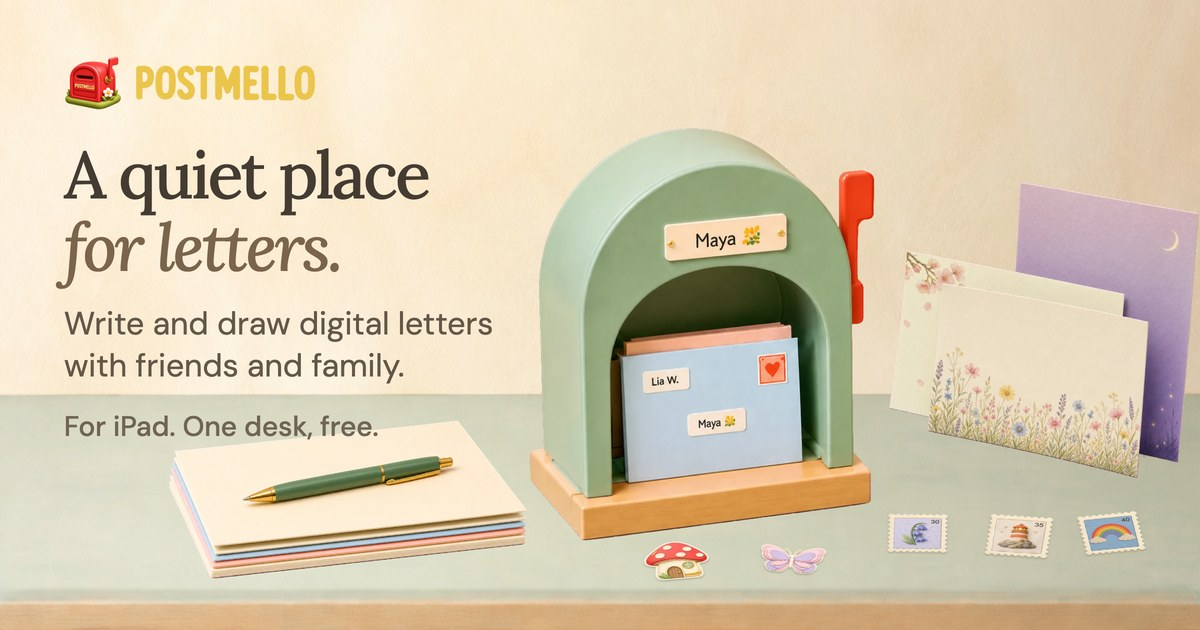
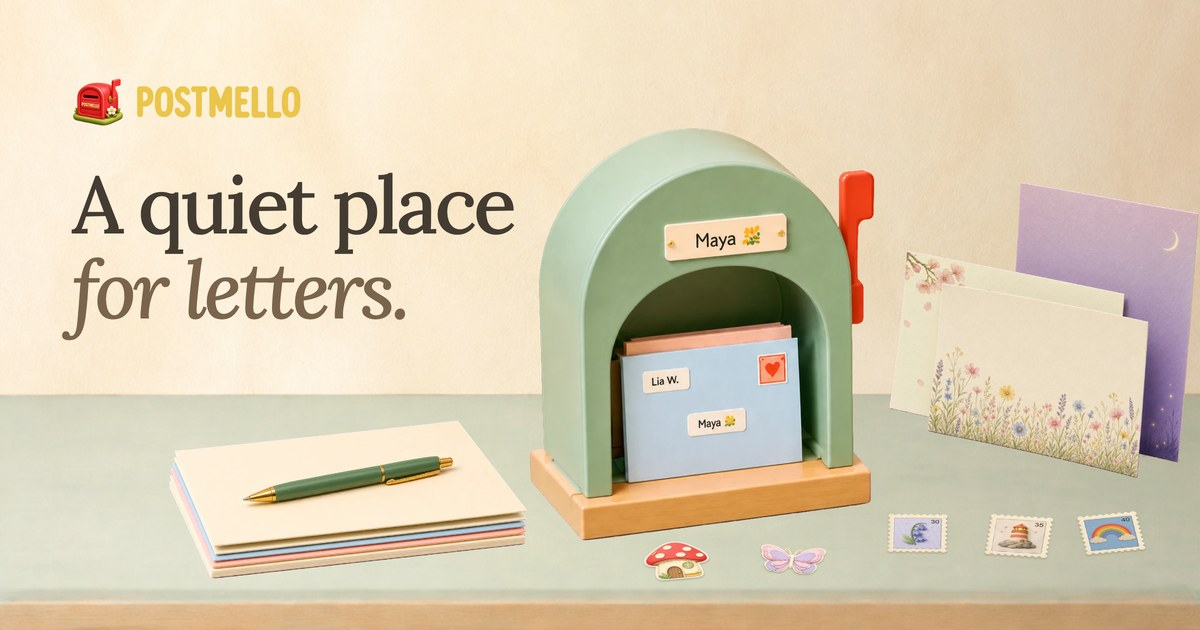
The share card is the wordmark, the headline and the desk
Patrick, 2026-09-15: the status line was a stray sentence without the badge it
sits beside on the site, and the sentence under the headline flattened the
type ramp and crowded the desk's rear edge. Both are gone. The card is the
drawn wordmark, the hero headline at 80px (88 ran into the mailbox) and the
desk scene; og:description carries the sentence under the picture.

Changed region(s): [[0.0308, 0.2413, 0.4317, 0.6032], [0.0308, 0.0905, 0.2775, 0.2111], [0.0308, 0.6635, 0.3083, 0.6937]]

diff --git a/scripts/og-card.html b/scripts/og-card.html
@@ -59,45 +59,39 @@
        comfortably. Test, do not estimate: render, downsample to 300px and
        360px, and look. A line that is illegible there is not on the card. */
     .copy {
-      position: absolute; left: 64px; top: 54px; width: 540px; z-index: 1;
+      position: absolute; left: 72px; top: 76px; width: 560px; z-index: 1;
     }
     /* THE WORDMARK IS DRAWN - assets/wordmark.png, the same file the site
        header uses, no typeface at all. Sized by height, width auto: the aspect
        is the drawing's. The lockup leads because the card is a thumbnail in
        somebody else's feed long before it is a 1200px image, and the mark is
-       what does the branding at 300px. */
-    .mark { display: flex; align-items: center; gap: 14px; margin-bottom: 26px; }
-    .mark .glyph { width: 58px; height: 58px; }
-    .mark .word { height: 35px; width: auto; display: block; }
+       what does the branding at 300px. On the site the lockup is a header
+       above the hero, not part of it, so it gets a header's distance here. */
+    .mark { display: flex; align-items: center; gap: 13px; margin-bottom: 34px; }
+    .mark .glyph { width: 52px; height: 52px; }
+    .mark .word { height: 32px; width: auto; display: block; }
     /* The hero's headline: Lora at the site's 500 (it loads no 700, and
        font-synthesis is off there too), the second line italic in the hero's
-       brown. Two lines, as the page breaks it. */
+       brown. Two lines, as the page breaks it. 80px: at 88 the word "place"
+       ran into the mailbox, whose visible left edge sits near x=535. */
     h1 {
       font-family: var(--font-serif);
-      font-weight: 500; font-size: 66px;
-      line-height: 1.1; letter-spacing: -0.04em;
+      font-weight: 500; font-size: 80px;
+      line-height: 1.06; letter-spacing: -0.04em;
       color: var(--ink);
     }
     h1 em { font-style: italic; font-weight: 500; color: var(--hero-em); }
-    /* The hero's first sentence only. The page says two ("Staying in touch
-       doesn't have to start with texting." follows), and both at a feed-legible
-       size is four lines of sans fighting the serif for ink. The picture
-       carries WHAT; the why stays on the page and in og:description, which
-       every client sets at its own readable size. */
-    .lead {
-      margin-top: 20px;
-      font-size: 32px; line-height: 1.3; font-weight: 400;
-      color: var(--hero-detail);
-      text-wrap: balance;
-    }
-    /* The hero's status line ("For iPad / One desk, free."), on one line. NOT
-       Apple's badge: this card is an image in a timeline with nothing to
-       click, and a download badge here would be a button that does nothing. */
-    .status {
-      margin-top: 22px;
-      font-size: 28px; line-height: 1.3; font-weight: 500;
-      color: var(--muted);
-    }
+    /* NO SENTENCE UNDER THE HEADLINE (Patrick, 2026-09-15: "clean everything
+       up"). The first render carried the hero's first sentence at 32px, and
+       beside a 66px headline it flattened the ramp to 2:1 and crowded the
+       desk's rear edge. The card is the drawn wordmark, the headline and the
+       desk; og:description carries "Write and draw digital letters with
+       friends and family..." and every client sets it at its own readable
+       size under the picture. */
+    /* NO STATUS LINE (Patrick, 2026-09-15). "For iPad. One desk, free." is the
+       caption beside the App Store badge on the site; with no badge on the
+       card it read as a stray sentence, and it landed on the desk's rear edge
+       above the paper stack. The platform is on the page and in the listing. */
     /* .desk-objects, verbatim from home.css: positions are percentages of the
        box, so the card's 1200x630 lays them out as the hero's 1320x650 does. */
     .objects { position: absolute; inset: 0; }
@@ -126,8 +120,6 @@
       <img class="word" src="../assets/wordmark.png" alt="Postmello" />
     </div>
     <h1>A quiet place<br /><em>for letters.</em></h1>
-    <p class="lead">Write and draw digital letters with friends and family.</p>
-    <p class="status">For iPad. One desk, free.</p>
   </div>
   <div class="objects">
     <img class="mailbox" src="../assets/hero/p-mailbox.webp" alt="" />

diff --git a/index.html b/index.html
@@ -1,5 +1,5 @@
 <!doctype html>
-<html lang="en"><head><meta charset="utf-8"><meta name="viewport" content="width=device-width,initial-scale=1"><title>Postmello - A quiet place for letters.</title><meta name="description" content="Write and draw digital letters with friends and family. Staying in touch doesn’t have to start with texting."><link rel="icon" href="/assets/favicon.png"><meta property="og:image" content="https://postmello.com/assets/og-card.jpg?v=6f9e0609" />
+<html lang="en"><head><meta charset="utf-8"><meta name="viewport" content="width=device-width,initial-scale=1"><title>Postmello - A quiet place for letters.</title><meta name="description" content="Write and draw digital letters with friends and family. Staying in touch doesn’t have to start with texting."><link rel="icon" href="/assets/favicon.png"><meta property="og:image" content="https://postmello.com/assets/og-card.jpg?v=b3978581" />
 <meta property="og:url" content="https://postmello.com/" />
 <link rel="canonical" href="https://postmello.com/" />
 <meta property="og:site_name" content="Postmello" />

diff --git a/blog/designing-a-desk-not-an-app/index.html b/blog/designing-a-desk-not-an-app/index.html
@@ -10,7 +10,7 @@
   <meta property="og:title" content="A World Built for Childhood" />
   <meta property="og:description" content="A desk to explore, a world to make their own, and real friends to create for. The design choices that make Postmello a place built for children." />
   <meta property="og:type" content="article" />
-  <meta property="og:image" content="https://postmello.com/assets/og-card.jpg?v=6f9e0609" />
+  <meta property="og:image" content="https://postmello.com/assets/og-card.jpg?v=b3978581" />
   <meta property="og:url" content="https://postmello.com/blog/designing-a-desk-not-an-app/" />
   <meta property="og:site_name" content="Postmello" />
   <meta name="twitter:card" content="summary_large_image" />

diff --git a/blog/three-kinds-of-quiet/index.html b/blog/three-kinds-of-quiet/index.html
@@ -10,7 +10,7 @@
   <meta property="og:title" content="Three Kinds of Quiet" />
   <meta property="og:description" content="How Postmello protects three kinds of quiet: the quiet of making something, the quiet of having time to answer, and the quiet of leaving the tablet behind." />
   <meta property="og:type" content="article" />
-  <meta property="og:image" content="https://postmello.com/assets/og-card.jpg?v=6f9e0609" />
+  <meta property="og:image" content="https://postmello.com/assets/og-card.jpg?v=b3978581" />
   <meta property="og:url" content="https://postmello.com/blog/three-kinds-of-quiet/" />
   <meta property="og:site_name" content="Postmello" />
   <meta name="twitter:card" content="summary_large_image" />

diff --git a/safety.html b/safety.html
@@ -9,7 +9,7 @@
   <link rel="apple-touch-icon" href="assets/app-icon.png" />
   <meta property="og:title" content="Postmello - Safety by design" />
   <meta property="og:description" content="How Postmello keeps children safe: only approved friends, no way for strangers to find a child, no ads, and nothing sold to the child at the desk." />
-  <meta property="og:image" content="https://postmello.com/assets/og-card.jpg?v=6f9e0609" />
+  <meta property="og:image" content="https://postmello.com/assets/og-card.jpg?v=b3978581" />
   <meta property="og:url" content="https://postmello.com/safety" />
   <meta property="og:type" content="website" />
   <meta name="twitter:card" content="summary_large_image" />

diff --git a/blog/learning-the-desk-through-its-objects/index.html b/blog/learning-the-desk-through-its-objects/index.html
@@ -10,7 +10,7 @@
   <meta property="og:title" content="Learning the Desk Through Its Objects" />
   <meta property="og:description" content="Paper, drawers, envelopes and a mailbox give correspondence a place and each touch a consequence." />
   <meta property="og:type" content="article" />
-  <meta property="og:image" content="https://postmello.com/assets/og-card.jpg?v=6f9e0609" />
+  <meta property="og:image" content="https://postmello.com/assets/og-card.jpg?v=b3978581" />
   <meta property="og:url" content="https://postmello.com/blog/learning-the-desk-through-its-objects/" />
   <meta property="og:site_name" content="Postmello" />
   <meta name="twitter:card" content="summary_large_image" />

diff --git a/blog/a-friend-does-not-need-another-app/index.html b/blog/a-friend-does-not-need-another-app/index.html
@@ -10,7 +10,7 @@
   <meta property="og:title" content="A Friend Does Not Need Another App" />
   <meta property="og:description" content="Email in both directions, shared addresses and careful merging keep letters and friendships together." />
   <meta property="og:type" content="article" />
-  <meta property="og:image" content="https://postmello.com/assets/og-card.jpg?v=6f9e0609" />
+  <meta property="og:image" content="https://postmello.com/assets/og-card.jpg?v=b3978581" />
   <meta property="og:url" content="https://postmello.com/blog/a-friend-does-not-need-another-app/" />
   <meta property="og:site_name" content="Postmello" />
   <meta name="twitter:card" content="summary_large_image" />

diff --git a/blog/why-i-built-postmello/index.html b/blog/why-i-built-postmello/index.html
@@ -10,7 +10,7 @@
   <meta property="og:title" content="Why I Built Postmello" />
   <meta property="og:description" content="A request to borrow a phone became a place for independent friendships, creative letters and time away from the screen." />
   <meta property="og:type" content="article" />
-  <meta property="og:image" content="https://postmello.com/assets/og-card.jpg?v=6f9e0609" />
+  <meta property="og:image" content="https://postmello.com/assets/og-card.jpg?v=b3978581" />
   <meta property="og:url" content="https://postmello.com/blog/why-i-built-postmello/" />
   <meta property="og:site_name" content="Postmello" />
   <meta name="twitter:card" content="summary_large_image" />

diff --git a/blog/the-name-on-the-desk/index.html b/blog/the-name-on-the-desk/index.html
@@ -10,7 +10,7 @@
   <meta property="og:title" content="The Name on the Desk" />
   <meta property="og:description" content="Nicknames, hero icons and the names we give our friends make the desk personal while keeping its writer recognizable." />
   <meta property="og:type" content="article" />
-  <meta property="og:image" content="https://postmello.com/assets/og-card.jpg?v=6f9e0609" />
+  <meta property="og:image" content="https://postmello.com/assets/og-card.jpg?v=b3978581" />
   <meta property="og:url" content="https://postmello.com/blog/the-name-on-the-desk/" />
   <meta property="og:site_name" content="Postmello" />
   <meta name="twitter:card" content="summary_large_image" />

diff --git a/blog/a-letter-keeps-its-audience/index.html b/blog/a-letter-keeps-its-audience/index.html
@@ -10,7 +10,7 @@
   <meta property="og:title" content="A Letter Keeps Its Audience" />
   <meta property="og:description" content="Why Postmello has no forwarding action, and why a reply goes to the sender or the original group." />
   <meta property="og:type" content="article" />
-  <meta property="og:image" content="https://postmello.com/assets/og-card.jpg?v=6f9e0609" />
+  <meta property="og:image" content="https://postmello.com/assets/og-card.jpg?v=b3978581" />
   <meta property="og:url" content="https://postmello.com/blog/a-letter-keeps-its-audience/" />
   <meta property="og:site_name" content="Postmello" />
   <meta name="twitter:card" content="summary_large_image" />

diff --git a/blog/a-space-of-your-own/index.html b/blog/a-space-of-your-own/index.html
@@ -10,7 +10,7 @@
   <meta property="og:title" content="A Space of Your Own" />
   <meta property="og:description" content="The evolution from one desk to personal spaces, with familiar objects and room for imagination." />
   <meta property="og:type" content="article" />
-  <meta property="og:image" content="https://postmello.com/assets/og-card.jpg?v=6f9e0609" />
+  <meta property="og:image" content="https://postmello.com/assets/og-card.jpg?v=b3978581" />
   <meta property="og:url" content="https://postmello.com/blog/a-space-of-your-own/" />
   <meta property="og:site_name" content="Postmello" />
   <meta name="twitter:card" content="summary_large_image" />

diff --git a/blog/what-the-bee-knows/index.html b/blog/what-the-bee-knows/index.html
@@ -10,7 +10,7 @@
   <meta property="og:title" content="What the Bee Knows" />
   <meta property="og:description" content="How the mailbox, waking bee and connection notes tell the truth about a letter’s journey." />
   <meta property="og:type" content="article" />
-  <meta property="og:image" content="https://postmello.com/assets/og-card.jpg?v=6f9e0609" />
+  <meta property="og:image" content="https://postmello.com/assets/og-card.jpg?v=b3978581" />
   <meta property="og:url" content="https://postmello.com/blog/what-the-bee-knows/" />
   <meta property="og:site_name" content="Postmello" />
   <meta name="twitter:card" content="summary_large_image" />
